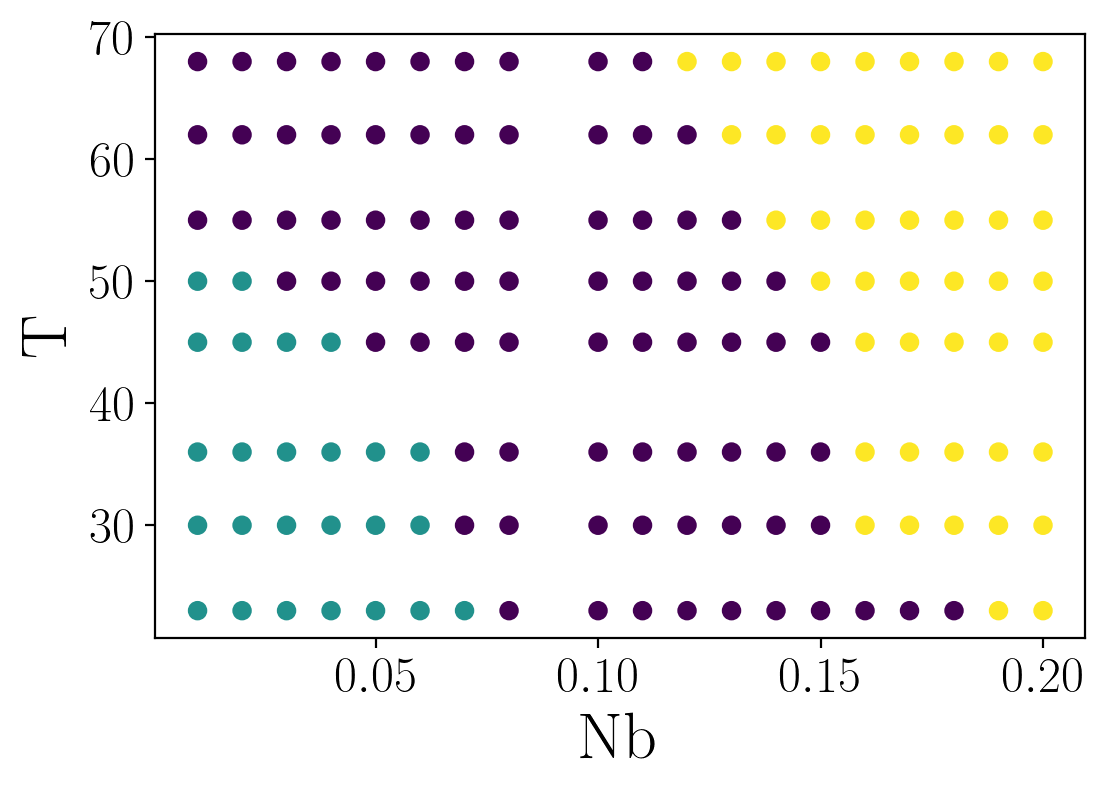
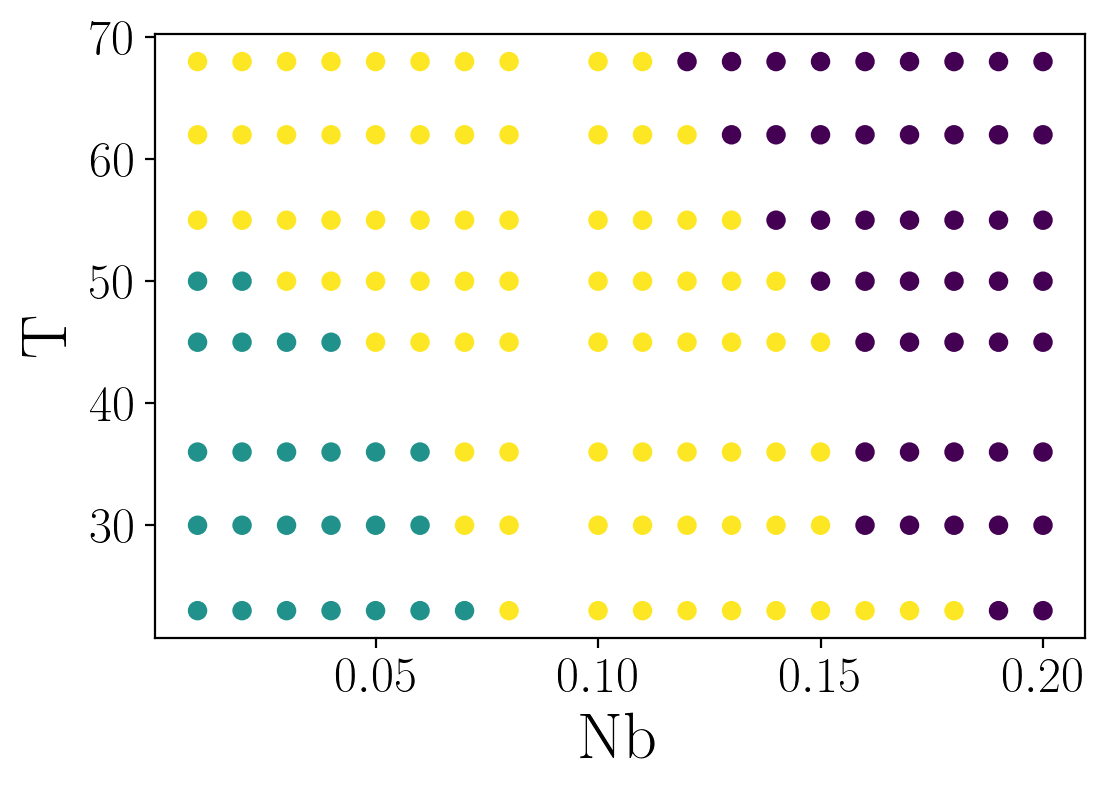
add GP and data I/O modules :/

diff --git a/VNbO2/gp.py b/VNbO2/gp.py
@@ -1,0 +1,90 @@
+import gpflow
+import numpy as np
+import tensorflow_probability as tfp
+
+import matplotlib.pyplot as plt
+from matplotlib.colors import Normalize
+from matplotlib.ticker import FormatStrFormatter
+
+
+def fit_sparse_gp(X, lab, n_classes=2, optimize_lengthscales=True):
+    """ use SVGP instead of VGP for better training scalability """
+
+    # just use the the full combi grid for inducing points
+    inducing_points = X[:192].copy()
+
+    data = (X, lab)
+    kernel = gpflow.kernels.RBF(lengthscales=[0.02,10], variance=1.0) + gpflow.kernels.White(variance=1.0)
+
+    m = gpflow.models.SVGP(
+        kernel=kernel,
+        likelihood=gpflow.likelihoods.MultiClass(n_classes),
+        inducing_variable=inducing_points,
+        num_latent_gps=n_classes
+    )
+
+    # choose a reasonable prior on the GP lengthscale over composition and temperature...
+    m.kernel.kernels[0].lengthscales.prior = tfp.distributions.LogNormal([np.log(0.02),np.log(10)], [1.0, 1.0])
+
+    # m.kern.white.variance.trainable = False
+    if not optimize_lengthscales:
+        m.kernel.kernels[0].lengthscales.trainable = False
+        m.kernel.kernels[0].variance.trainable = False
+
+    opt = gpflow.optimizers.Scipy()
+    opt_logs = opt.minimize(
+        m.training_loss_closure(data), m.trainable_variables, options={'maxiter': 1000}
+    )
+
+    return m
+
+def variational_log_likelihoods(X, Y, model):
+    """ compute variational expectations for a label set under the consensus model """
+    # get predicted values to evaluate errors...
+    Ymu, Yvar = model.predict_y(X)
+    Ypred = np.argmax(Ymu, axis=1)
+    error_indicator = 2*(Y == Ypred) - 1
+
+    # get individual log likelihoods
+    Fmu, Fvar = model.predict_f(X)
+    loglik = model.likelihood.variational_expectations(Fmu, Fvar, Y[:,None])
+
+    return loglik, error_indicator
+
+def snapshot(df, m):
+    cmap = plt.cm.get_cmap("YlGnBu_r", 3)
+
+    max_C = 0.25
+    C_spacing, T_spacing = 0.001, 0.1
+    grid_C, grid_T = np.meshgrid(
+        np.arange(0.0, max_C+C_spacing, C_spacing),
+        np.arange(df.temp.min()-50*T_spacing, df.temp.max()+50*T_spacing, T_spacing)
+    )
+    h, w = grid_C.shape
+    extent = (np.min(grid_C), np.max(grid_C), np.min(grid_T), np.max(grid_T))
+    gridpoints = np.c_[grid_C.ravel(), grid_T.ravel()]
+
+    mu_y, var_y = m.predict_y(gridpoints)
+    mu_f, var_f = m.predict_f(gridpoints)
+    mu_y, var_y = mu_y.numpy().reshape(h, w, -1), var_y.numpy().reshape(h,w,-1)
+    mu_f, var_f = mu_f.numpy().reshape(h, w, -1), var_f.numpy().reshape(h,w,-1)
+
+    # color map the predictions... set alpha channel with variance...
+    C = np.argmax(mu_y > 0.5, axis=-1).astype(int)
+    c = cmap(C)
+    a = var_y.mean(axis=-1)
+    a = Normalize(a.min(), a.max(), clip=True)(a)
+    c[...,-1] = 1-a
+
+    fig, ax1 = plt.subplots(ncols=1, figsize=(6,4))
+    # ax1.scatter(df['Nb'], df['temp'])
+    ax1.imshow(c, origin='lower', extent=extent)
+    ax1.contour(C, levels=[0.5,1.5], linestyles=['--'], colors='k', origin='lower', extent=extent)
+    ax1.set_xlabel('Nb');
+    ax1.set_ylabel('Temperature (C)');
+    ax1.xaxis.set_major_formatter(FormatStrFormatter('%.2f'))
+
+    plt.xlim(0,0.25)
+    plt.axis('auto')
+    plt.tight_layout()
+    return c, extent

diff --git a/VNbO2/data/io.py b/VNbO2/data/io.py
@@ -1,0 +1,89 @@
+import os
+import glob
+import json
+import numpy as np
+import pandas as pd
+
+from . import preprocess
+
+data_root = os.path.join(os.path.dirname(__file__), os.pardir, os.pardir, 'data')
+
+def load_VNb2O3(detrend=False, smooth=False, angular_range=None, post_normalize=False, ord=1):
+    """ load VNb2O3 metadata into pandas, and XRD data into numpy (via pandas)
+    Combiview metadata comes in multiple files
+    join on the same index across all these files...
+    """
+
+    metadata = [
+        # 'VO2 - Nb2O3 Composition Combiview.txt',
+        'VO2 - Nb2O3 Phase Labels Combiview.txt',
+        'VO2 - Nb2O3 Composition and temp Combiview.txt',
+        'VO2 - Nb2O3 Position Combiview.txt'
+    ]
+    metadata = [os.path.join(data_root, filename) for filename in metadata]
+
+    df = pd.concat(
+        list(map(lambda f: pd.read_csv(f, sep='\t'), metadata)),
+        axis=1
+    )
+
+    # drop duplicate composition column...
+    df = df.loc[:,~df.columns.duplicated()]
+
+    df.rename(columns={'Unnamed: 3': 'sample_idx'})
+
+    xrd = pd.read_csv(os.path.join(data_root, 'VO2 -Nb2O3 XRD Combiview.txt'), sep='\t')
+    X = np.array(xrd)
+    angle = np.array(xrd.keys(), dtype=float)
+
+    # use zero-indexed labels...
+    df['Label'] = df['Label'] - 1
+
+    # apply pre-processing
+    if angular_range is not None:
+        angle, X = preprocess.trim_angular_range(angle, X, angular_range=(18,37.2))
+
+    if detrend:
+        X = np.array([
+            preprocess.detrend_pattern(angle, x)
+            for x in X
+        ])
+
+    if smooth:
+        X = preprocess.smooth_patterns(X)
+
+    angle, X = preprocess.trim_angular_range(angle, X, angular_range=angular_range)
+
+    if post_normalize:
+        X = X / np.linalg.norm(X, ord=ord, axis=-1)[:,None]
+
+
+    return X, angle, df
+
+def read_pattern(datafile, detrend=False, smooth=False, pretrim=True, angular_range=None, post_normalize=False, ord=1, fmt='xy'):
+    """ parse an xy file """
+
+    if fmt == 'xy':
+        skiprows = 1
+    elif fmt == 'plt':
+        skiprows = 16
+
+    df = pd.read_csv(datafile, skiprows=skiprows, header=None, delimiter=' ', names=['angle', 'energy'])
+    angle, X = np.array(df.angle), np.array(df.energy)
+
+    # apply pre-processing
+    if pretrim:
+        angle, X = preprocess.trim_angular_range(angle, X, angular_range=(18,37.2))
+
+    if detrend:
+        X = preprocess.detrend_pattern(angle, X)
+
+    if smooth:
+        X = preprocess.smooth_patterns(X)
+
+    angle, X = preprocess.trim_angular_range(angle, X, angular_range=angular_range)
+
+    if post_normalize:
+        X = X / np.linalg.norm(X, ord=ord)
+
+    return angle, X

diff --git a/VNbO2/data/preprocess.py b/VNbO2/data/preprocess.py
@@ -1,0 +1,60 @@
+import numpy as np
+from scipy import signal
+from sklearn import linear_model
+
+def select_angular_range(angle, angular_range=(26, 30), tol=1e-4):
+    min_angle, max_angle = angular_range
+
+    id_angle = (angle - min_angle >= -tol) & (angle - max_angle <= tol)
+
+    return id_angle
+
+def trim_angular_range(angle, pattern, angular_range=(26, 30), tol=1e-4):
+
+    if angular_range is None:
+        return angle, pattern
+
+    id_angle = select_angular_range(angle, angular_range=angular_range, tol=tol)
+
+    return angle[id_angle], pattern[...,id_angle]
+
+def detrend_pattern(angle, pattern, support=None, return_bias=False):
+
+    reg = linear_model.BayesianRidge()
+
+    if support is not None:
+        reg.fit(angle[support,None], pattern[support])
+    else:
+        mean_intensity = np.mean(np.abs(pattern))
+        std_intensity = np.std(np.abs(pattern))
+        support = np.abs(pattern) < mean_intensity + 2*std_intensity
+
+        reg.fit(angle[support,None], pattern[support])
+
+    bias = reg.predict(angle[:,None])
+
+    if return_bias:
+        return pattern - bias, bias
+    else:
+        return pattern - bias
+
+def detrend_dataset(angle, X):
+    XX = []
+    for x in X:
+        mean_intensity = np.mean(np.abs(x))
+        std_intensity = np.std(np.abs(x))
+        support = np.abs(x) < mean_intensity + 2*std_intensity
+        pattern, bias = detrend_pattern(angle, x, support=support, return_bias=True)
+        XX.append(pattern)
+    return np.array(XX)
+
+def smooth_patterns(patterns, order=2, Wn=0.025, clip=True):
+    """ apply a lowpass filter to suppress noise, with optional clipping to zero """
+
+    b, a = signal.butter(order, Wn, analog=False)
+    XXclip = signal.filtfilt(b, a, patterns, axis=-1)
+
+    if clip:
+        XXclip = np.clip(XXclip, 0.0, 9999)
+
+    return XXclip

diff --git a/VNbO2/utils.py b/VNbO2/utils.py
@@ -1,0 +1,13 @@
+import numpy as np
+
+def order_labels(labels, C):
+    """ order labels consistently with ground truth labels -- start from pure VO2 """
+    C_avg = [np.mean(C[labels == label]) for label in np.unique(labels)]
+    label_order = np.argsort(C_avg)
+
+    reordered = np.zeros_like(labels)
+
+    for new_label, label in enumerate(label_order):
+        reordered[labels == label] = new_label
+
+    return reordered
